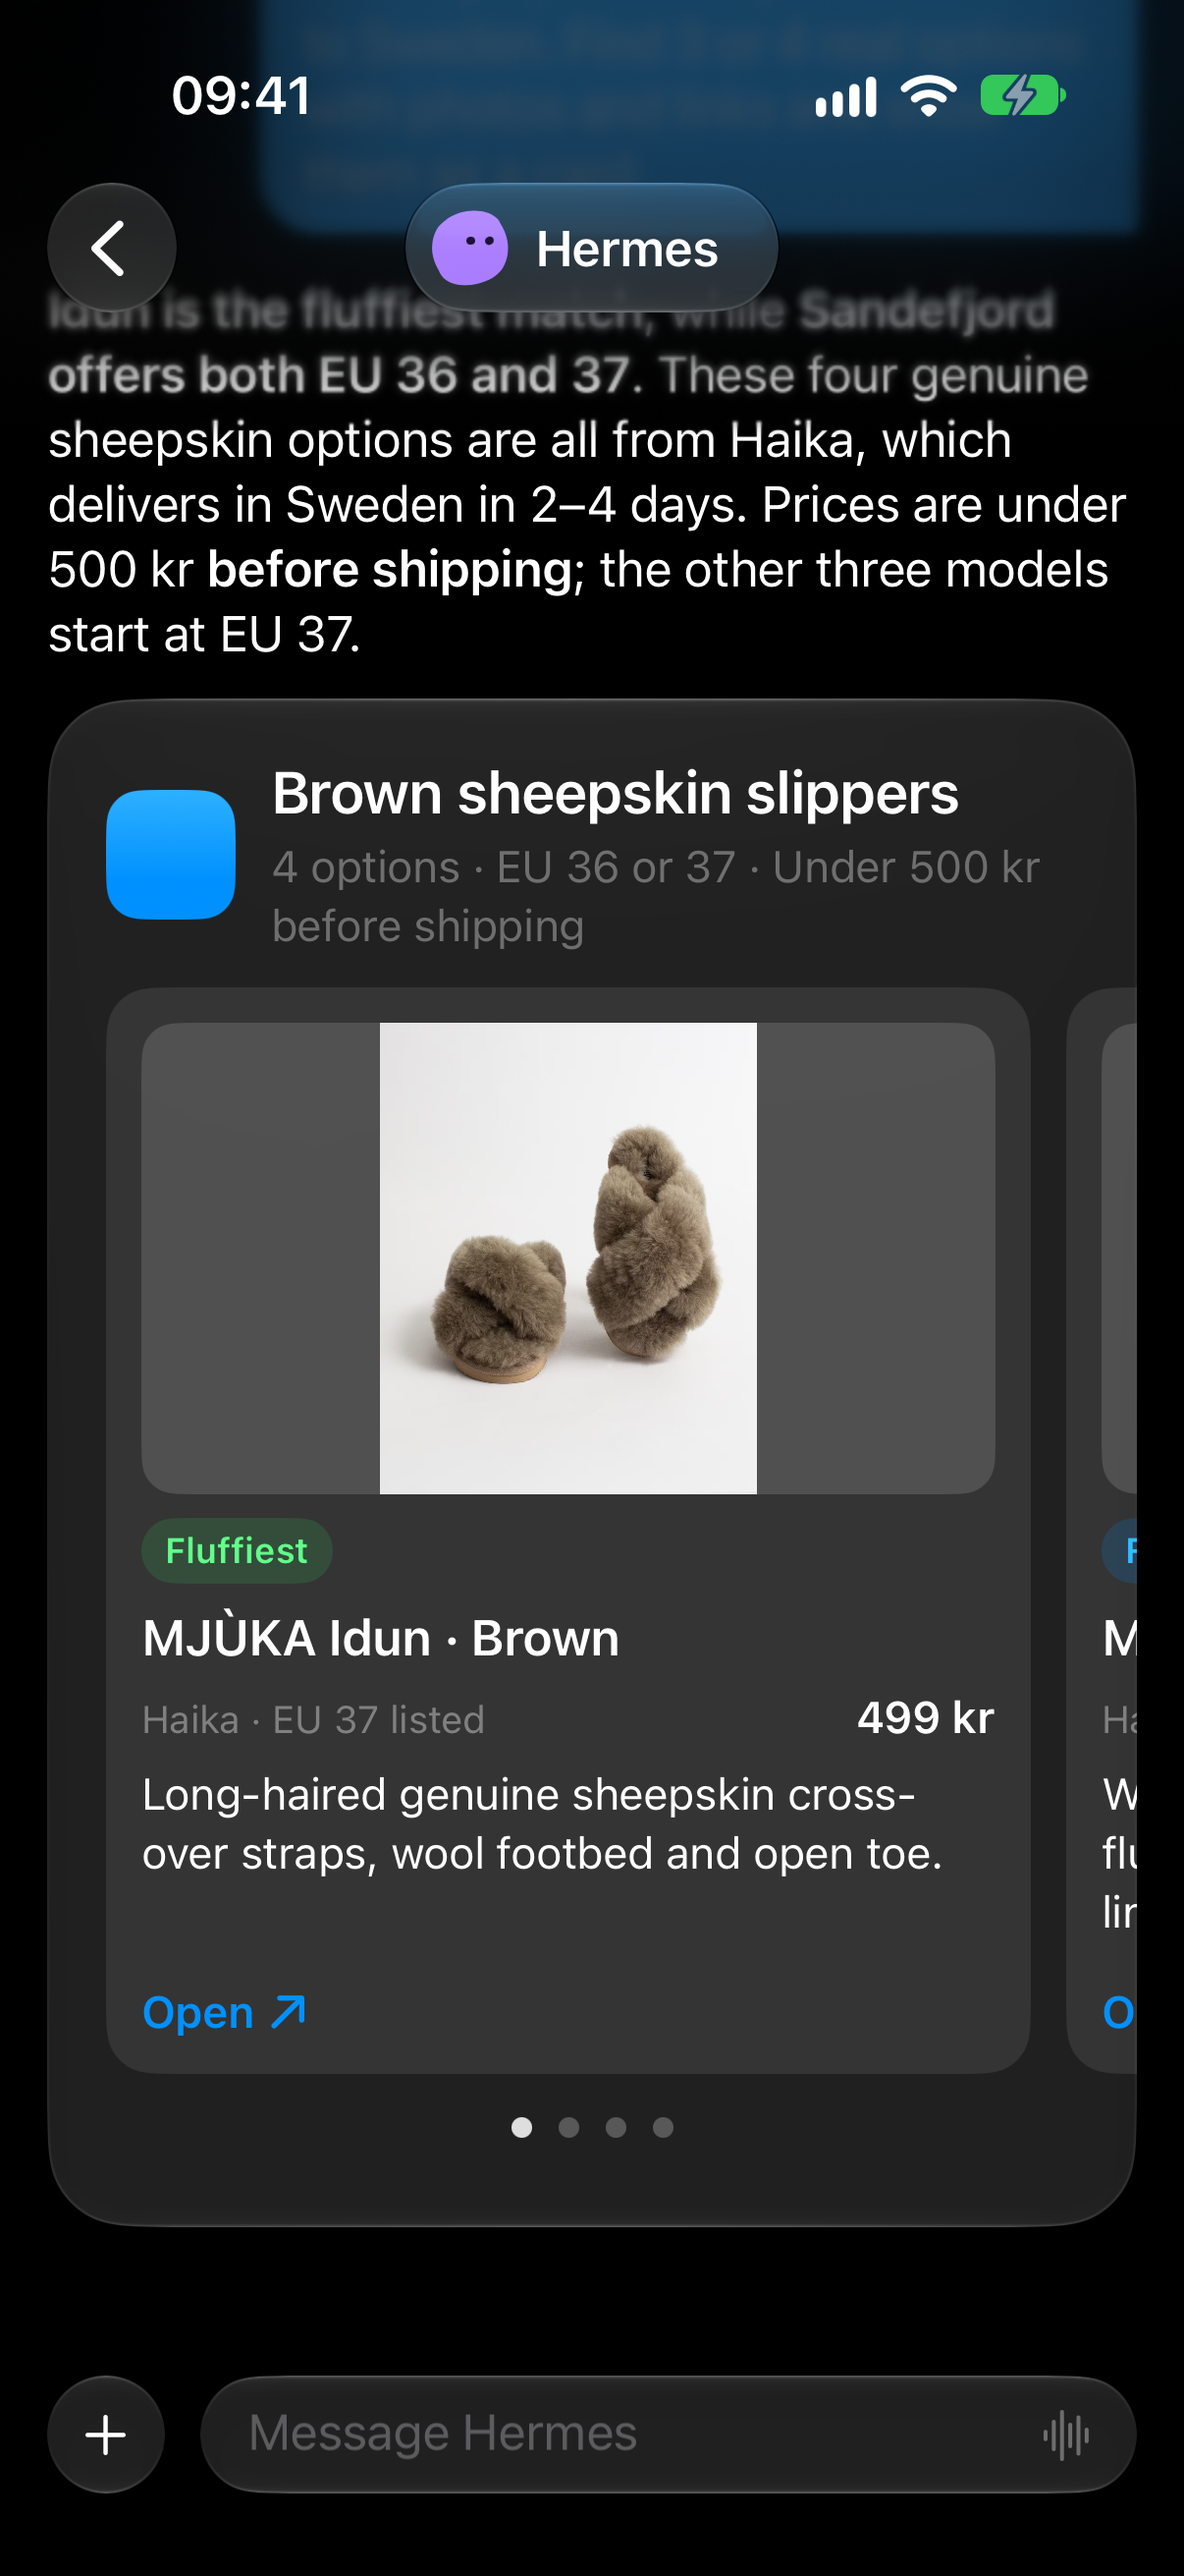
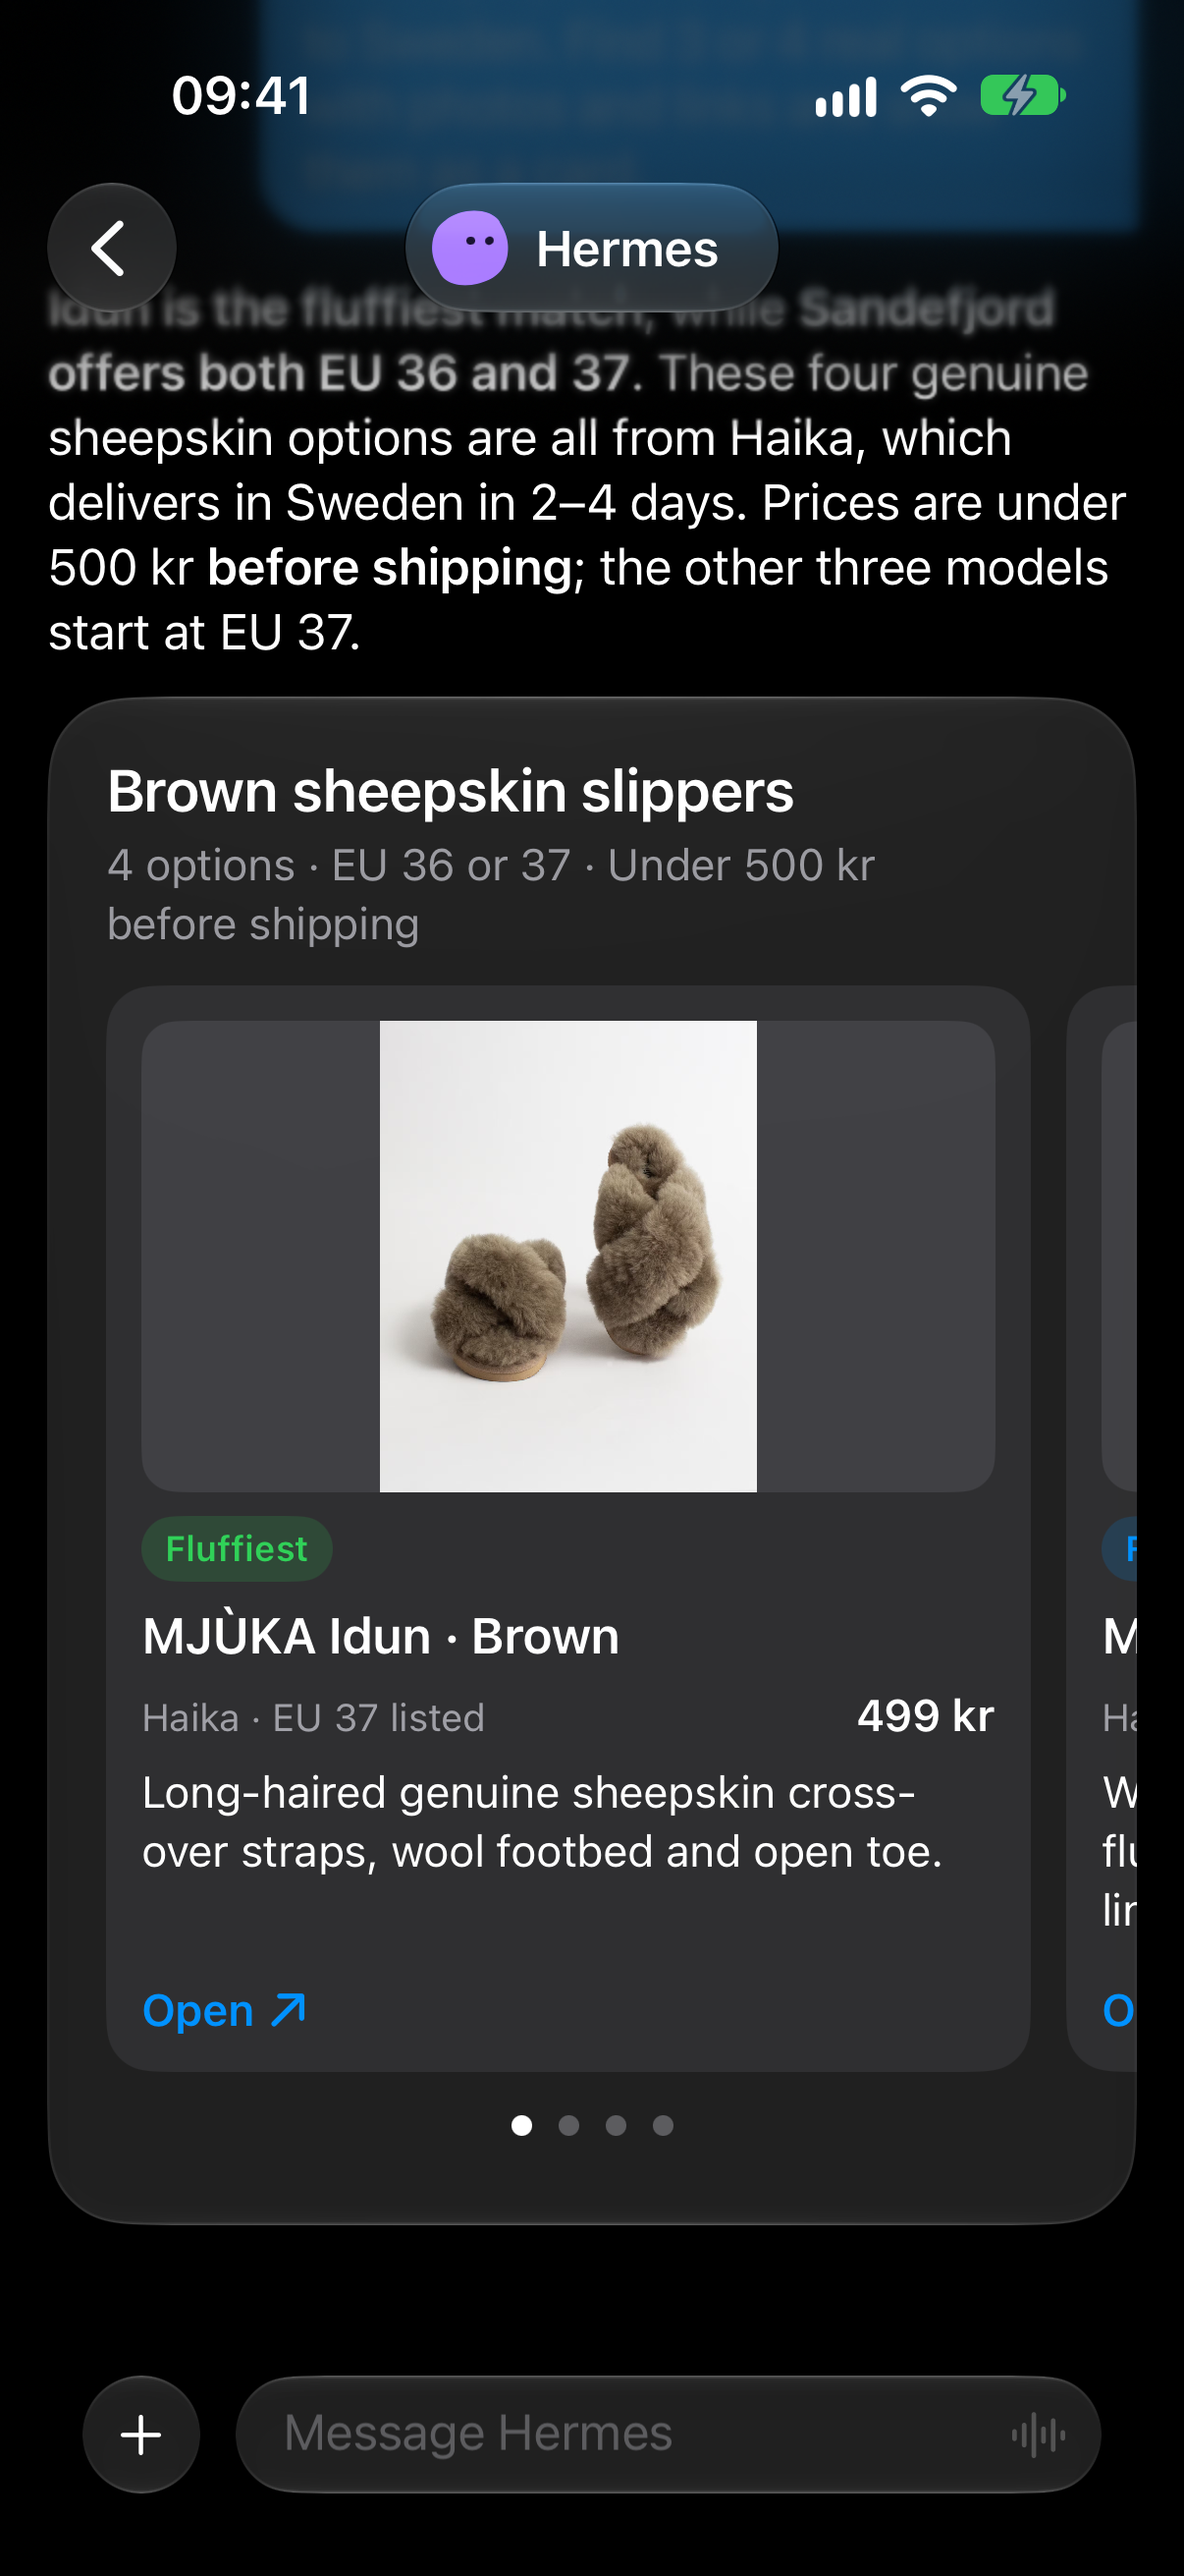
A2UI Header, Badge and KeyValue skip symbols that aren't SF Symbols (#135) (#186)

diff --git a/Sources/Chat/A2UI/CrewBlocks.swift b/Sources/Chat/A2UI/CrewBlocks.swift
@@ -24,7 +24,7 @@ struct CrewHeader: View {
                 .accessibilityHidden(true)
             }
             HStack(spacing: 12) {
-                if let symbol = node.string(for: "symbol") {
+                if let symbol = systemSymbol(node.string(for: "symbol")) {
                     Image(systemName: symbol)
                         .font(.title3.weight(.medium))
                         .foregroundStyle(.white)
@@ -97,7 +97,7 @@ struct CrewBadge: View {
     var body: some View {
         let tint = crewTones[node.string(for: "tone") ?? ""] ?? .secondary
         HStack(spacing: 4) {
-            if let symbol = node.string(for: "symbol") {
+            if let symbol = systemSymbol(node.string(for: "symbol")) {
                 Image(systemName: symbol)
             }
             Text(node.string(for: "text") ?? "")
@@ -168,7 +168,7 @@ struct CrewKeyValue: View {
                     Divider()
                 }
                 HStack(alignment: .firstTextBaseline, spacing: 16) {
-                    if let symbol = items[index].string(for: "symbol") {
+                    if let symbol = systemSymbol(items[index].string(for: "symbol")) {
                         Image(systemName: symbol)
                             .foregroundStyle(.tint)
                             .frame(width: 24)

diff --git a/Sources/Chat/A2UI/SystemSymbol.swift b/Sources/Chat/A2UI/SystemSymbol.swift
@@ -1,0 +1,14 @@
+#if os(macOS)
+import AppKit
+#else
+import UIKit
+#endif
+
+func systemSymbol(_ name: String?) -> String? {
+    guard let name else { return nil }
+    #if os(macOS)
+    return NSImage(systemSymbolName: name, accessibilityDescription: nil) == nil ? nil : name
+    #else
+    return UIImage(systemName: name) == nil ? nil : name
+    #endif
+}

diff --git a/Tests/CrewTests/SystemSymbolTests.swift b/Tests/CrewTests/SystemSymbolTests.swift
@@ -1,0 +1,12 @@
+import Testing
+
+struct SystemSymbolTests {
+    @Test func anA2UIIconNameIsNotDrawnAsASymbol() {
+        #expect(systemSymbol("shoppingCart") == nil)
+        #expect(systemSymbol(nil) == nil)
+    }
+
+    @Test func anSFSymbolNameIsKept() {
+        #expect(systemSymbol("bag.fill") == "bag.fill")
+    }
+}

diff --git a/Sources/Profile/crew-ui.SKILL.md b/Sources/Profile/crew-ui.SKILL.md
@@ -25,7 +25,7 @@ Components (exact property names):
 - Column, Row, List: "children" (array of ids, or a template); Row/Column "justify": "start" | "center" | "end" | "spaceBetween", "align": "start" | "center" | "end" | "stretch"
 - Divider
 - Image: "url" (https only), "description"
-- Icon: "name", one of check, close, info, warning, star, favorite, event, locationOn, shoppingCart, mail, phone, home, person, settings
+- Icon: "name", one of check, close, info, warning, star, favorite, event, locationOn, shoppingCart, mail, phone, home, person, settings. These Icon names work only in Icon; every "symbol" property below takes an SF Symbol name instead.
 - Button: "child" (id of a Text label), "variant": "default" | "primary" | "borderless", "action": {"event": {"name": "<name>", "context": {"<key>": <literal or {"path": ...}>}}}. One primary button per card, for the main action.
 - CheckBox: "label", "value" (bound boolean). Ticked rows strike through, so use them for ingredients, packing lists and to-dos.
 - TextField: "label", "value" (bound string), "variant": "shortText" | "longText" | "number" | "obscured"
@@ -34,9 +34,9 @@ Components (exact property names):
 - Slider: "label", "min", "max", "value" (bound number)
 
 Crew-only components (plain values, no {"path"} bindings):
-- Header: "title", "subtitle" (meta line, e.g. "4 servings · 40 min"), "symbol" (an SF Symbol name such as "fork.knife", "airplane", "cloud.sun.fill", "cup.and.saucer.fill", "trash"), "image" (https hero photo), "tone": "accent" | "info" | "success" | "warning" | "critical". Start every card with one instead of a Text title.
+- Header: "title", "subtitle" (meta line, e.g. "4 servings · 40 min"), "symbol" (an SF Symbol name such as "fork.knife", "airplane", "cloud.sun.fill", "cup.and.saucer.fill", "cart", "trash"; never an Icon name like "shoppingCart", and an unknown name shows no symbol), "image" (https hero photo), "tone": "accent" | "info" | "success" | "warning" | "critical". Start every card with one instead of a Text title.
 - Steps: "items": ["...", ...], numbered method steps (no "1." prefixes in the strings)
-- Badge: "text", "tone": "neutral" | "info" | "success" | "warning" | "critical", optional "symbol". Short status like "Cheapest", "Idle 14 days"; put several in a Row.
+- Badge: "text", "tone": "neutral" | "info" | "success" | "warning" | "critical", optional "symbol" (SF Symbol name). Short status like "Cheapest", "Idle 14 days"; put several in a Row.
 - Table: "columns": ["..."], "rows": [["...", ...], ...], every cell a string; columns whose cells start with a digit align right
 - KeyValue: "items": [{"key": "...", "value": "...", "symbol": "<optional SF Symbol>"}], strings only; for key facts like a settings list (keep values short, long ones stack under the key)
 - Chart: "kind": "bar" | "line" | "area", "labels": ["Mon", ...], and either "values": [numbers] or "series": [{"name": "High", "values": [numbers]}, ...] for several lines or bar groups, optional "unit" (e.g. "°C"). One value per label.
